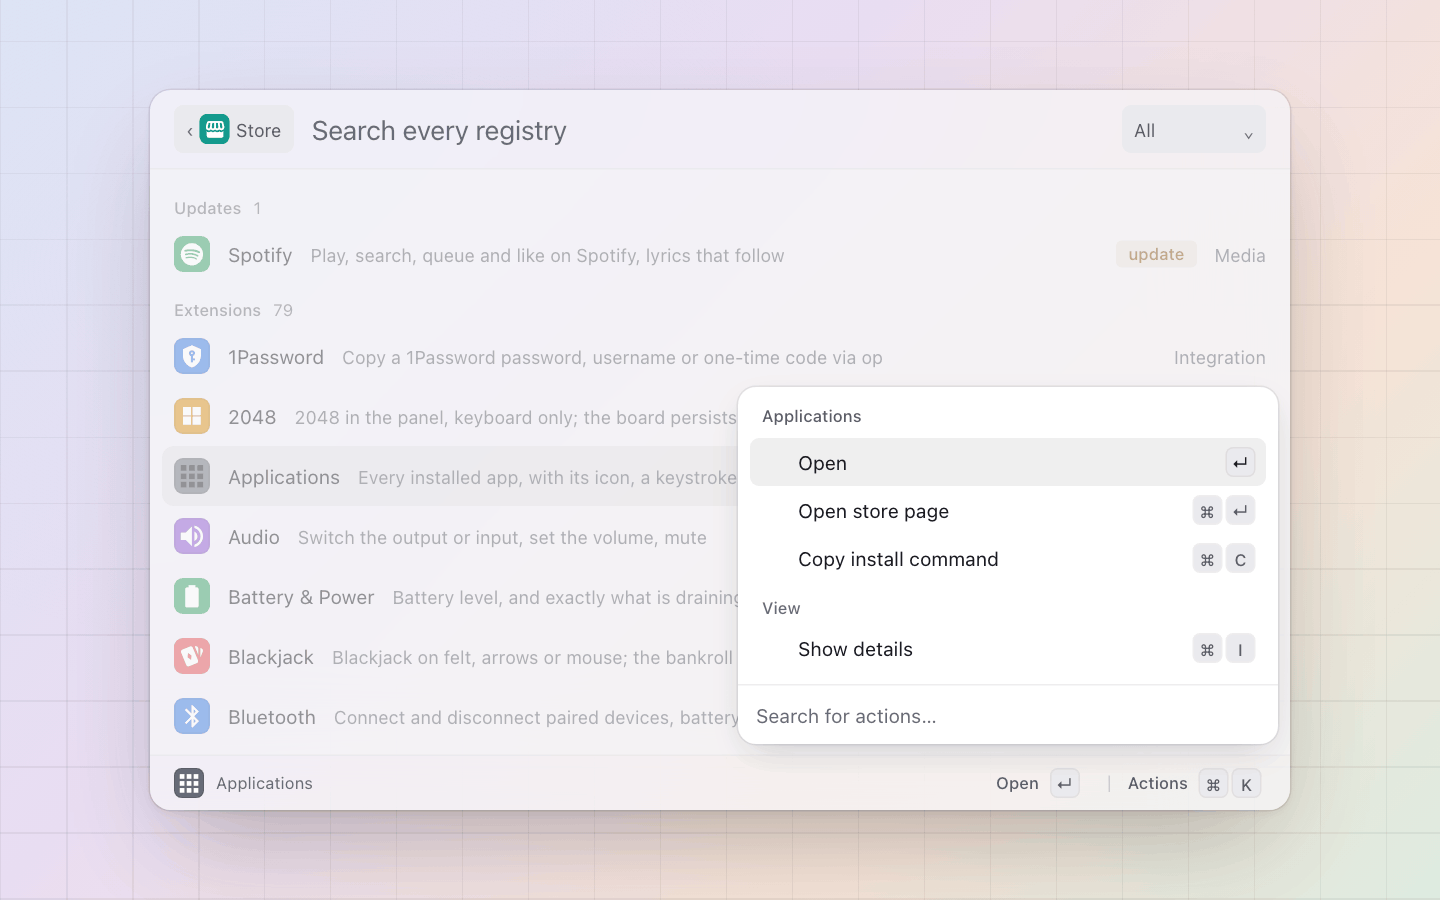
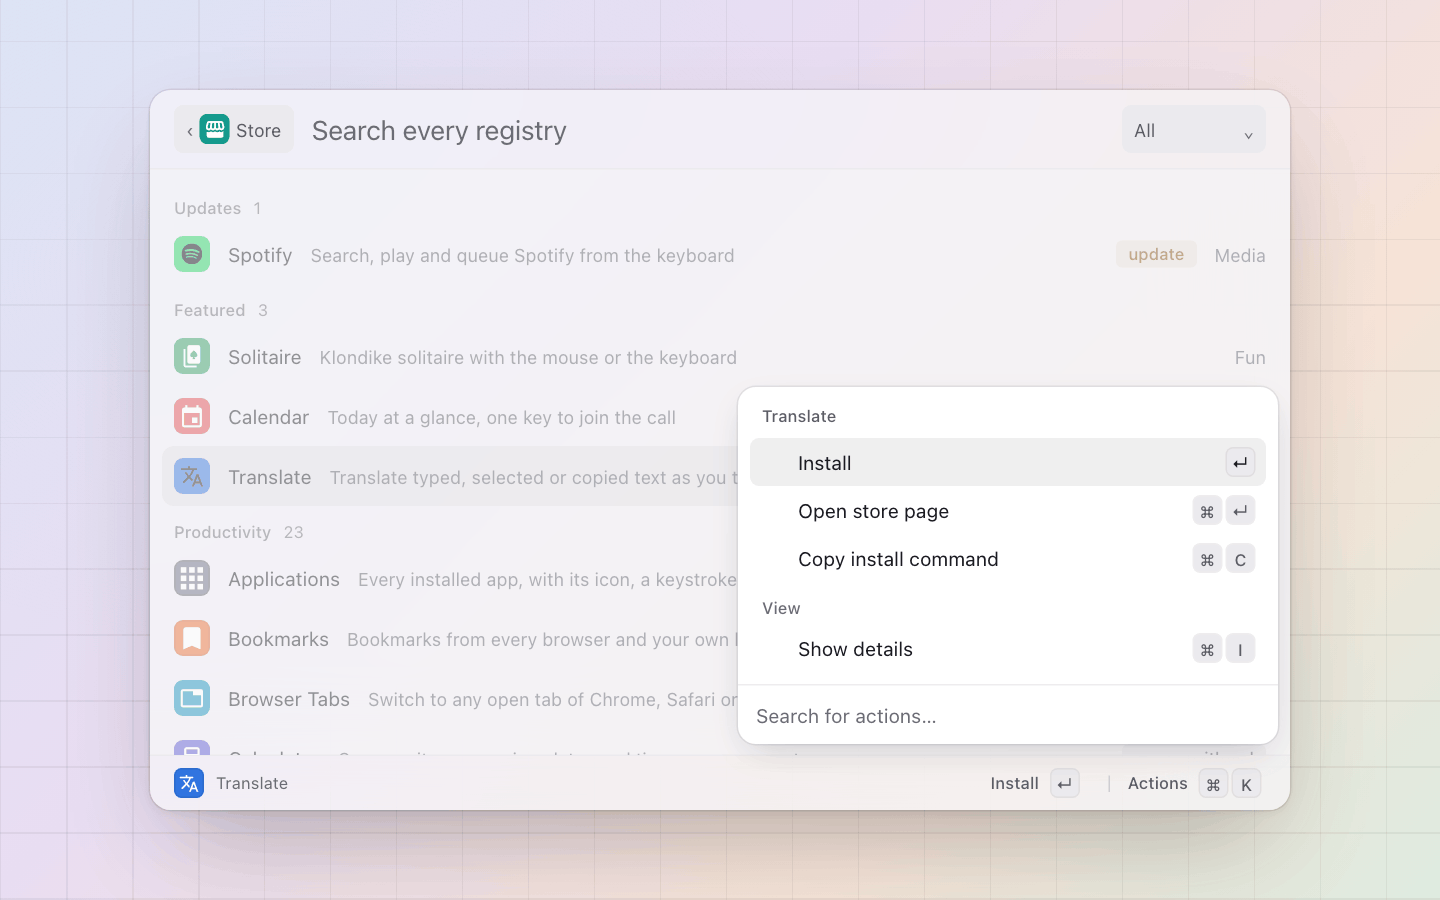
Browse and the Store palette keep the title's order (a card that installs stays put); store and games fixtures for the 0.9 world, their screenshots regenerated; docs for Browse, Featured and the Games headings

diff --git a/extensions/games/fixture.ts b/extensions/games/fixture.ts
@@ -1,23 +1,41 @@
 // Writes app/src/gallery/shots/games.json, the store screenshots' fixture:
 // the rows as index.ts lists them through the host harness, from the
-// repo's own manifests (every bundled game with its tile and tagline, as a
-// user with nothing from the store sees them). `bun run
-// extensions/games/fixture.ts`, then `make shots EXT=games`.
-import { readdirSync } from "node:fs";
+// repo's own manifests. The machine it shows is a 0.9 one: the games come
+// from pal's registry (docs/design/distribution.md, "What is bundled"),
+// Solitaire, Wordle and Snake are installed, and every other game the
+// registry lists is on offer under Not installed, each with its tile and
+// tagline. `bun run extensions/games/fixture.ts`, then `make shots EXT=games`.
+import { existsSync, readFileSync, readdirSync } from "node:fs";
+import { join } from "node:path";
 import { BUNDLED, Host } from "../../host/test/harness.ts";
 import { pinClock, writeFixture } from "../../app/scripts/fixture-kit.ts";
+import type { AvailableExtension } from "../../sdk/src/index.ts";
 import manifest from "./pal.json" with { type: "json" };
 
+const INSTALLED = new Set(["games", "solitaire", "wordle", "snake"]);
+
 pinClock();
-const installed = readdirSync(BUNDLED, { withFileTypes: true }).filter((d) => d.isDirectory()).map((d) => ({ name: d.name, version: "0.1.0", root: BUNDLED, loaded: true, store: false, bundled: true }));
-// Nothing on offer: the pictures show the games that come with pal.
-const host = await Host.bundled({ core: { "extensions.list": () => installed, "store.state": () => ({ available: [] }) } });
+const names = readdirSync(BUNDLED).filter((n) => existsSync(join(BUNDLED, n, "pal.json"))).sort();
+const installed = names.filter((n) => INSTALLED.has(n)).map((name) => ({ name, version: "0.1.0", root: BUNDLED, loaded: true, store: name !== "games", bundled: name === "games" }));
+const available: AvailableExtension[] = names.map((name) => {
+  const m = JSON.parse(readFileSync(join(BUNDLED, name, "pal.json"), "utf8"));
+  const s = m.store ?? {};
+  return {
+    name, registry: "pal", installed: INSTALLED.has(name), bundled: name === "games", installable: true,
+    listing: {
+      title: m.title ?? name, description: m.description ?? "", tagline: s.tagline ?? "", features: s.features ?? [], category: s.category ?? "", keywords: m.keywords ?? [], icon: m.icon ?? null, author: m.author ?? "",
+      platforms: s.platforms ?? null, play: !!s.play, palettes: Object.entries(m.palettes ?? {}).map(([id, p]: [string, any]) => ({ id, title: p.title ?? m.title ?? id, kind: p.kind ?? "list" })),
+      screenshots: [], requires: m.requires ?? [], suggests: m.suggests ?? [],
+    },
+  };
+});
+const host = await Host.bundled({ core: { "extensions.list": () => installed, "store.state": () => ({ available }) } });
 try {
   const items = await host.list("games", "games");
   writeFixture("games", {
     palettes: { games: { title: manifest.title, icon: manifest.icon, live: true, items } },
     shots: {
-      "1-list": { palette: "games", keys: [], caption: "Every game pal has, by name, each with its tile and what it is" },
+      "1-list": { palette: "games", keys: [], caption: "The games you have first, then every other game pal's registry offers, each with its tile and what it is; Enter installs one and starts it" },
       "2-search": { palette: "games", keys: ["type:daily"], caption: "Typing narrows the list, taglines included: daily finds the daily puzzles; Enter opens one" },
     },
   });

diff --git a/app/src/ui/SettingsStore.tsx b/app/src/ui/SettingsStore.tsx
@@ -200,7 +200,7 @@ const withCode = (s: string): ReactNode[] => s.split(/`([^`]*)`/g).map((part, i)
 /** The card's line under the tagline: the first feature, else the description when it says more than the tagline. */
 export function whatLine(l: Listing): string | undefined {
   const f = featuresOf(l)[0];
-  if (f) return plainText(f);
+  if (f) return cap(plainText(f));
   const d = l.description.trim();
   const t = l.tagline.trim().replace(/\.$/, "").toLowerCase();
   return d && (!t || !d.toLowerCase().startsWith(t)) ? d : undefined;
@@ -223,8 +223,9 @@ export const featuredOf = (available: Available[], n = 3): Available[] =>
  * name, title, tagline, category, keywords or a palette's title, or start
  * a word of the description or a feature (inside a word there, "git"
  * would find every "digit"). With a query the title's matches lead (every
- * word starts a word of the title, then a word inside it); within that,
- * and without a query, what is not installed comes first, each by title.
+ * word starts a word of the title, then a word inside it), then by title.
+ * Installed or not changes nothing here: a card that installs stays where
+ * it is, and the card itself says which it is.
  */
 export function browseRows(available: Available[], category: string, query: string): Available[] {
   const words = query.toLowerCase().split(/\s+/).filter(Boolean);
@@ -240,7 +241,7 @@ export function browseRows(available: Available[], category: string, query: stri
   };
   return available
     .filter((a) => (category === "all" || a.listing.category === category) && (!words.length || matches(a)))
-    .sort((x, y) => rank(x) - rank(y) || Number(x.installed) - Number(y.installed) || title(x).localeCompare(title(y)));
+    .sort((x, y) => rank(x) - rank(y) || title(x).localeCompare(title(y)));
 }
 
 /** What a Browse card or a listing's page is doing: installing, done, or why it failed. */

diff --git a/extensions/store/store.ts b/extensions/store/store.ts
@@ -74,11 +74,11 @@ export function select(all: Standing[], filter: string | undefined, query: strin
 export const featured = (all: Standing[], n = 3): Standing[] =>
   FEATURED.map((name) => all.find((s) => s.a.name === name && !s.a.installed && s.a.installable)).filter((s): s is Standing => !!s).slice(0, n);
 
-/** The standings as shelves: a category each in the filter's order (one no filter names after them, by title; none last as Other), what is not installed first on each, then by title. */
+/** The standings as shelves: a category each in the filter's order (one no filter names after them, by title; none last as Other), each in the order it came in (select's). */
 export function shelves(all: Standing[]): { title: string; rows: Standing[] }[] {
   const rank = (c: string) => { const i = (CATEGORIES as readonly string[]).indexOf(c); return i < 0 ? (c ? CATEGORIES.length : CATEGORIES.length + 1) : i; };
   const cats = [...new Set(all.map((s) => s.a.listing.category))].sort((a, b) => rank(a) - rank(b) || a.localeCompare(b));
-  return cats.map((c) => ({ title: categoryTitle(c), rows: all.filter((s) => s.a.listing.category === c).sort((x, y) => Number(x.a.installed) - Number(y.a.installed) || titleOf(x).localeCompare(titleOf(y))) }));
+  return cats.map((c) => ({ title: categoryTitle(c), rows: all.filter((s) => s.a.listing.category === c) }));
 }
 
 const shortHash = (h: string) => h.slice(0, 7);

diff --git a/extensions/store/fixture.ts b/extensions/store/fixture.ts
@@ -55,8 +55,8 @@ try {
   writeFixture("store", {
     palettes: { store: { title: manifest.title, icon: manifest.icon, input: true, placeholder: meta.placeholder, filters: meta.filters, byQuery, details } },
     shots: {
-      "1-browse": { palette: "store", keys: ["down*2"], caption: "The store as it opens: what has an update first, then every listed extension with how it stands" },
-      "2-detail": { palette: "store", keys: ["type:git", "cmd+i"], caption: "cmd+I opens the detail pane: what the extension is, its palettes and pictures, where it comes from" },
+      "1-browse": { palette: "store", keys: ["down*2"], caption: "The store as it opens: an update that waits, three featured, then a section per category with how each stands" },
+      "2-detail": { palette: "store", keys: ["type:git", "cmd+i"], caption: "cmd+I opens the detail pane: what the extension is and does, its palettes and pictures, where it comes from" },
       "3-actions": { palette: "store", keys: ["down*3", "cmd+k"], caption: "Install on Enter; the store page and the install command a keystroke away" },
     },
   });

diff --git a/app/src/ui/__tests__/settings-window.test.tsx b/app/src/ui/__tests__/settings-window.test.tsx
@@ -255,7 +255,9 @@ describe("SettingsExtensions", () => {
     expect(git[0]).toBe("github");
     expect(git).not.toContain("hue");
     expect(names(browseRows(all, "fun", "")).slice(0, 2)).toEqual(["2048", "blackjack"]);
-    expect(browseRows(all, "fun", "").at(-1)?.installed).toBe(true);
+    // Installed or not, the order is the title's: a card that installs stays where it is.
+    const fun = browseRows(all, "fun", "").map((a) => (a.listing.title || a.name).toLowerCase());
+    expect(fun).toEqual([...fun].sort((a, b) => a.localeCompare(b)));
     expect(browseRows(all, "all", "daily").some((a) => a.name === "wordle")).toBe(true);
     const cats = categoriesOf(all);
     expect(cats.map((c) => c.id)).toEqual(["productivity", "developer", "system", "media", "reference", "fun", "integration"]);

diff --git a/extensions/store/index.ts b/extensions/store/index.ts
@@ -39,8 +39,8 @@ async function current(force: boolean, now: number): Promise<{ state: StoreState
  * that did not answer), then what has an update under its own heading,
  * then the rest. Opened on everything with nothing typed, the rest is a
  * Featured section (three worth meeting first) and a section per
- * category, what is not installed leading each; a search or a filter
- * lists one run of rows, the title's matches first.
+ * category; a search or a filter lists one run of rows, the title's
+ * matches first.
  */
 function rows(state: StoreState, filter: string, query: string, now: number, error?: string): Item[] {
   const out: Item[] = [];

diff --git a/docs/palettes.md b/docs/palettes.md
@@ -1543,11 +1543,17 @@ listed extension with its tile, its tagline as the subtitle, how it
 stands (`update`, `needs a newer pal`, `not updated`, `comes with pal`,
 `installed`, or why it cannot be installed here), the registry's name
 when it is not pal's, and the category on the right. What has an update
-leads the list under an **Updates** heading. The detail pane (`⌘I`)
-shows the description, the palettes and the listing's screenshots, with
-the author, where it comes from, its status, its build (short hash and
-date), whether it updates by itself, category, platforms, the `pal
-install` line and, for pal's registry, a link to the page.
+leads the list under an **Updates** heading. Opened on All with nothing
+typed, the rest follows as **Featured** (three worth meeting first that
+are not installed: Spotify, GitHub, Solitaire, Calendar, Translate, Disk
+Space, Hue, Typing, in that order) and then a section per category, by
+title (the section names the category, so the row does not). A search or a filter is one list, the extensions whose
+title the words start first. The detail pane (`⌘I`) shows the
+description, what it does (the listing's features), the palettes and the
+listing's screenshots, with the author, where it comes from, its status,
+its build (short hash and date), whether it updates by itself, category,
+platforms, the `pal install` line and, for pal's registry, a link to the
+page.
 
 | standing | `Enter` | `⌘Enter` | `⌘C` | `⌃X` |
 | --- | --- | --- | --- | --- |
@@ -3107,8 +3113,9 @@ Every game in one list: one row per game with its tile and tagline,
 sorted by name, and Enter opens that game as its own level (Escape comes
 back to the list). Nothing is kept here: every open reads the installed
 extensions' manifests and lists each view palette of a loaded extension
-the store shelves under Fun, then every game the registries list for this
-machine that is not installed, tagged **Not installed**. Enter on one of
+the store shelves under Fun, then, under a **Not installed** heading,
+every game the registries list for this machine that is not installed
+(the installed ones then sit under **Installed**). Enter on one of
 those installs it from its registry, waits for it to load, then opens it
 (its row says **Installing…** meanwhile); an install that fails stays at
 the top of the list as a row saying why. No settings.

diff --git a/docs/design/distribution.md b/docs/design/distribution.md
@@ -538,15 +538,29 @@ Unused extensions are simply not installed, and they stay visible.
   - Enter shows the listing with Install. After the install it opens the
     palette that was searched for.
 - **Games.** The Games palette (`extensions/games/index.ts:17`) adds every game
-  in the index for this platform, marked *Not installed*. Enter installs it,
-  waits for it to load, then starts it. This is through a new SDK call,
-  `extensions.available()`, which any shelf palette can use.
+  in the index for this platform, under *Not installed* after the installed
+  ones. Enter installs it, waits for it to load, then starts it. This is
+  through a new SDK call, `extensions.available()`, which any shelf palette
+  can use.
 - **Settings › Extensions.**
-  - The "Get more extensions" card becomes a browse section in the page:
-    categories, search, install.
-  - A Registries section sits beside it.
+  - The page has two views, switched at its top: Installed (the home) and
+    Browse. "Get more extensions" on the home opens Browse.
+  - Browse lists every extension the registries list as cards (the tile,
+    the tagline, the first feature, where it comes from, Install or Open),
+    installed ones drawn flat with a check. The categories sit above as
+    pills with their counts, and the search narrows as you type. With
+    neither, a Featured row (three with their first screenshot) leads and
+    each category is a shelf.
+  - A card opens the listing's page: the screenshots large in the scheme in
+    force, the description and features, the palettes, the facts (where
+    from, what it runs on, what it installs first, the build, the command)
+    and three related ones.
+  - The Registries section and the source install sit under Browse.
   - Updates, registry problems, pending installs, left-over references and
-    rollbacks go to Needs you.
+    rollbacks go to Needs you, on the home.
+- **Store palette.** Opened on All with nothing typed: the updates, three
+  featured, then a section per category, by title. A search is one list, the title's
+  matches first. The Featured list is the same in both places.
 - **First run.** A welcome row, "Pick extensions", opens the Store on its
   categories. This keeps the standing decision in `welcome.rs:1-3`: no wizard,
   no prompt until asked for.

diff --git a/extensions/store/README.md b/extensions/store/README.md
@@ -30,7 +30,12 @@ pal's own registry's extensions have one. An extension that comes with
 pal is turned off in Settings › Extensions, never removed.
 
 What has an update leads the list under an **Updates** heading (unless
-the filter already narrows to updates).
+the filter already narrows to updates). Opened on All with nothing typed,
+**Featured** follows (the first three of Spotify, GitHub, Solitaire,
+Calendar, Translate, Disk Space, Hue and Typing that are not installed and
+install here; Settings' Browse has the same row), then a section per
+category, each by title. A search or a filter is one list, the
+extensions whose title the words start first.
 
 Marked extensions (cmd-click, shift-click, shift+arrows) install, update
 or remove together, open their pages, or copy their install commands one
@@ -39,8 +44,9 @@ several.
 
 ## The detail pane
 
-`cmd+i` on a row: the description, the palettes, the screenshots from the
-listing, and what it installs first; the metadata lists the author, where
+`cmd+i` on a row: the description, what it does (the listing's
+features, when its index has them), the palettes, the screenshots from
+the listing, and what it installs first; the metadata lists the author, where
 it comes from, its status, its build (short hash and date), whether it
 updates by itself, category, platforms, the `pal install` line and, for
 pal's registry, a link to the page.

diff --git a/extensions/games/README.md b/extensions/games/README.md
@@ -1,14 +1,15 @@
 # Games
 
 Every game in one list. Enter on the Games row opens it: one row per
-game with its tile and tagline, sorted by name, and Enter on a row opens
-that game (Escape comes back to the list).
+game with its tile and tagline, sorted by name, the installed ones first,
+and Enter on a row opens that game (Escape comes back to the list).
 
 The list is not kept here: every open reads the installed extensions'
 manifests and takes each view palette of an extension the store shelves
 under Fun, then adds every game the registries list for this machine
 (`extensions.available()`: Fun, a view palette, this platform, a build
-that runs here) that is not installed, tagged **Not installed**.
+that runs here) that is not installed, under a **Not installed** heading
+(the installed ones then sit under **Installed**).
 
 Enter on a game not installed installs it from its registry, waits for it
 to load, and opens it; its row says **Installing…** meanwhile. An install
